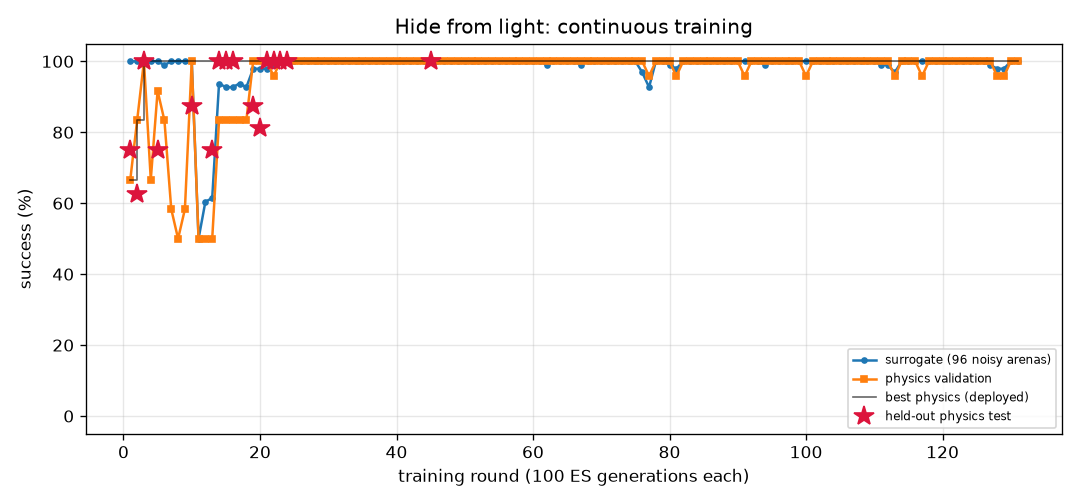
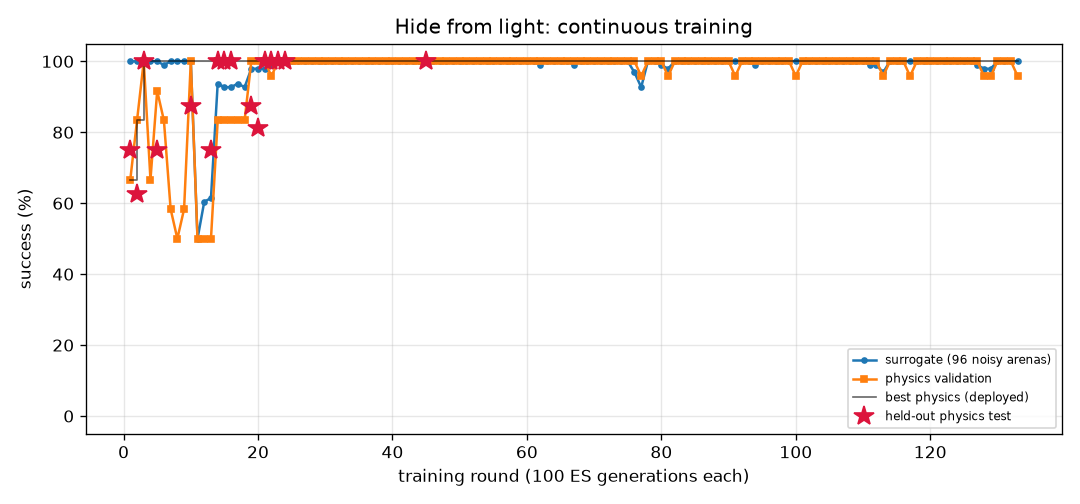
FlyLab: continuous training progress
- walk_forward: optimal, physics val 100% of 24, round 63
- turn: optimal, physics val 100% of 24, round 234
- goto: optimal, physics val 100% of 24, round 61
- odor_seek: optimal, physics val 100% of 24, round 77
- odor_avoid: optimal, physics val 100% of 24, round 338
- light_seek: optimal, physics val 100% of 24, round 242
- light_avoid: optimal, physics val 100% of 24, round 133

diff --git a/projects/09_flylab/training/light_avoid/REPORT.md b/projects/09_flylab/training/light_avoid/REPORT.md
@@ -1,14 +1,14 @@
 # Hide from light (`light_avoid`) — training report
 
-*Auto-generated by `train_brains.py`, last updated 2026-10-08T09:08:33.*
+*Auto-generated by `train_brains.py`, last updated 2026-10-08T09:42:52.*
 
 ![curve](curve.png)
 
 | | |
 |---|---|
-| rounds | 131 |
-| ES generations | 13100 |
-| physics runs | 3384 |
+| rounds | 133 |
+| ES generations | 13300 |
+| physics runs | 3432 |
 | status | **optimal** |
 | best brain | round 45: physics validation **100%** on 24 arenas, surrogate 100% |
 | held-out physics test | **100%** on 32 unseen arenas (95% CI 89%-100%) (errors: [14.4, 28.9, 31.6, 32.2, 31.9, 13.9, 14.5, 34.1, 33.7, 13.3, 14.0, 31.3, 31.1, 13.1, 32.4, 33.8, 32.9, 32.2, 31.7, 32.0, 29.0, 12.3, 31.9, 33.2, 14.2, 13.7, 33.6, 32.5, 33.2, 13.2, 28.1, 33.7]) |
@@ -17,8 +17,6 @@ Physics error per arena: mm gained away from source (> 6 without first approachi
 
 | round | level | gens | sigma | surrogate | physics val | val errors | test | note |
 |---:|---:|---:|---:|---:|---:|---|---:|---|
-| 92 | 3 | 9200 | 0.024 | 100% | 100% | [42.9, 43.2, 43.6, 43.2, 38.5, 42.4, 43.8, 14.5, 39.7, 13.5, 43.4, 37.9, 14.4, 41.9, 43.4, 43.6, 14.2, 39.2, 43.1, 14.4, 44.1, 43.6, 43.0, 37.0] |  |  |
-| 93 | 3 | 9300 | 0.024 | 100% | 100% | [45.5, 46.6, 46.8, 45.6, 43.8, 45.3, 46.6, 14.5, 39.1, 13.2, 44.6, 42.3, 14.4, 45.4, 46.7, 45.0, 14.2, 44.1, 46.1, 14.4, 45.0, 45.7, 46.8, 42.4] |  | restart from best |
 | 94 | 3 | 9400 | 0.024 | 99% | 100% | [37.1, 37.9, 37.6, 38.9, 40.4, 36.4, 35.8, 14.5, 11.3, 13.5, 39.0, 40.4, 14.4, 39.0, 37.6, 38.2, 14.2, 40.2, 38.1, 14.4, 35.8, 39.5, 35.4, 40.5] |  |  |
 | 95 | 3 | 9500 | 0.025 | 100% | 100% | [44.4, 46.2, 45.9, 46.4, 50.0, 46.1, 44.1, 14.5, 46.3, 11.5, 47.0, 50.0, 14.4, 47.5, 46.1, 47.3, 14.2, 49.8, 46.3, 14.4, 42.8, 47.7, 44.6, 50.4] |  |  |
 | 96 | 3 | 9600 | 0.024 | 100% | 100% | [56.4, 59.2, 58.9, 56.8, 58.4, 55.7, 57.7, 14.5, 53.5, 13.3, 57.1, 58.2, 14.4, 58.0, 59.1, 55.7, 14.2, 58.9, 59.5, 14.4, 55.6, 56.9, 57.6, 57.6] |  |  |
@@ -57,3 +55,5 @@ Physics error per arena: mm gained away from source (> 6 without first approachi
 | 129 | 3 | 12900 | 0.025 | 98% | 96% | [39.7, 42.8, 42.9, 39.1, 39.0, 41.9, 42.9, 14.5, 13.0, 13.4, 10.2, 38.7, 14.4, 7.9, 43.0, 40.3, 14.2, 40.2, 42.8, 14.4, 40.6, 11.3, 42.2, 37.6] |  | restart from best |
 | 130 | 3 | 13000 | 0.024 | 100% | 100% | [45.4, 46.5, 45.8, 46.2, 49.6, 45.9, 43.8, 14.5, 43.7, 13.3, 48.7, 49.7, 14.4, 48.7, 46.2, 45.4, 14.2, 49.5, 46.9, 14.4, 43.1, 49.3, 44.8, 49.5] |  |  |
 | 131 | 3 | 13100 | 0.024 | 100% | 100% | [44.0, 45.0, 45.6, 44.5, 42.1, 44.4, 46.4, 14.5, 33.5, 13.3, 42.4, 41.6, 14.3, 40.9, 45.5, 43.7, 14.2, 42.4, 45.5, 14.4, 40.2, 42.8, 45.3, 40.8] |  |  |
+| 132 | 3 | 13200 | 0.024 | 100% | 100% | [55.0, 57.4, 57.6, 55.2, 53.7, 54.9, 57.3, 14.5, 53.6, 13.1, 50.4, 53.7, 14.4, 52.2, 57.6, 54.5, 14.2, 55.4, 57.1, 14.4, 53.9, 53.1, 57.4, 52.4] |  |  |
+| 133 | 3 | 13300 | 0.024 | 100% | 96% | [33.5, 37.3, 36.9, 34.5, 32.2, 34.0, 37.0, 14.5, 15.9, 13.3, 31.6, 33.4, 14.4, 33.1, 37.8, 31.7, 14.2, 33.9, 35.7, 14.4, 31.5, 32.4, 36.5, 32.8] |  | restart from best |

diff --git a/projects/09_flylab/training/odor_avoid/REPORT.md b/projects/09_flylab/training/odor_avoid/REPORT.md
@@ -1,14 +1,14 @@
 # Escape a bad smell (`odor_avoid`) — training report
 
-*Auto-generated by `train_brains.py`, last updated 2026-10-08T08:55:30.*
+*Auto-generated by `train_brains.py`, last updated 2026-10-08T09:29:52.*
 
 ![curve](curve.png)
 
 | | |
 |---|---|
-| rounds | 336 |
-| ES generations | 33600 |
-| physics runs | 5274 |
+| rounds | 338 |
+| ES generations | 33800 |
+| physics runs | 5322 |
 | status | **optimal** |
 | best brain | round 288: physics validation **100%** on 24 arenas, surrogate 98% |
 | held-out physics test | **100%** on 32 unseen arenas (95% CI 89%-100%) (errors: [61.2, 57.1, 61.4, 61.0, 13.5, 61.1, 61.1, 60.7, 60.0, 56.9, 60.8, 56.8, 60.8, 60.0, 58.7, 59.7, 60.7, 54.4, 60.9, 54.7, 61.1, 60.5, 57.7, 58.7, 59.8, 55.9, 55.7, 45.8, 55.9, 58.2, 59.2, 28.5]) |
@@ -17,8 +17,6 @@ Physics error per arena: mm gained away from source (> 6 without first approachi
 
 | round | level | gens | sigma | surrogate | physics val | val errors | test | note |
 |---:|---:|---:|---:|---:|---:|---|---:|---|
-| 297 | 3 | 29700 | 0.025 | 96% | 100% | [62.3, 58.6, 55.8, 60.8, 61.7, 61.9, 60.6, 57.4, 61.1, 61.7, 61.5, 62.0, 53.0, 55.5, 40.8, 60.7, 62.2, 61.6, 54.8, 57.1, 61.9, 61.7, 59.4, 60.5] |  |  |
-| 298 | 3 | 29800 | 0.026 | 97% | 96% | [62.7, 58.8, 58.2, 57.9, 61.1, 62.0, 60.8, 27.5, 60.5, 57.7, 60.9, 60.3, 53.4, 58.1, 37.1, 60.1, 60.2, 60.9, 54.1, 55.0, 59.7, 60.1, 58.3, 46.1] |  |  |
 | 299 | 3 | 29900 | 0.026 | 97% | 100% | [62.8, 58.6, 58.3, 57.7, 60.9, 61.9, 59.8, 49.4, 60.0, 51.0, 60.9, 60.8, 52.6, 57.4, 42.5, 61.3, 59.8, 60.7, 53.2, 57.1, 60.2, 55.2, 58.1, 51.9] |  |  |
 | 300 | 3 | 30000 | 0.026 | 96% | 100% | [61.9, 59.0, 57.9, 59.2, 60.3, 60.6, 60.3, 45.6, 58.7, 60.0, 60.9, 59.7, 53.6, 54.9, 42.6, 60.3, 60.7, 61.2, 54.3, 55.9, 59.9, 59.0, 58.7, 47.7] |  | restart from best |
 | 301 | 3 | 30100 | 0.025 | 97% | 96% | [60.5, 55.6, 54.9, 55.9, 58.9, 59.3, 59.2, 19.3, 58.5, 27.4, 58.6, 59.7, 51.8, 54.5, 15.6, 56.1, 60.1, 59.2, 53.6, 52.6, 59.8, 40.4, 55.2, 51.9] |  |  |
@@ -57,3 +55,5 @@ Physics error per arena: mm gained away from source (> 6 without first approachi
 | 334 | 3 | 33400 | 0.025 | 99% | 100% | [60.9, 60.3, 56.4, 59.9, 61.8, 60.1, 61.6, 41.4, 61.2, 46.9, 60.2, 61.3, 53.6, 56.3, 47.8, 61.4, 61.7, 60.9, 54.7, 59.6, 61.8, 60.7, 59.2, 59.0] |  |  |
 | 335 | 3 | 33500 | 0.025 | 96% | 100% | [60.3, 58.3, 55.8, 58.4, 61.2, 59.9, 61.6, 25.8, 61.2, 45.0, 34.8, 60.8, 49.6, 55.3, 17.2, 60.8, 61.3, 58.2, 53.2, 59.2, 61.2, 58.7, 60.0, 49.5] |  | restart from best |
 | 336 | 3 | 33600 | 0.025 | 94% | 92% | [61.3, 57.4, 56.1, 59.1, 57.6, 60.5, 61.7, 59.6, 61.7, 59.5, 36.1, 61.2, 38.0, 53.1, 19.3, 60.8, 60.8, 58.4, 49.8, 59.9, 61.0, 60.6, 59.5, 60.8] |  |  |
+| 337 | 3 | 33700 | 0.028 | 96% | 96% | [61.1, 58.1, 56.3, 58.8, 60.9, 59.7, 60.6, 49.5, 60.5, 53.8, 27.2, 60.7, 46.8, 56.0, 0.3, 61.1, 61.2, 59.3, 49.8, 57.9, 61.1, 59.9, 59.3, 59.3] |  |  |
+| 338 | 3 | 33800 | 0.026 | 96% | 96% | [60.9, 59.4, 53.4, 60.1, 60.9, 58.5, 60.9, 57.3, 61.6, 54.8, 47.7, 60.9, 45.7, 54.1, 10.6, 58.1, 60.7, 54.7, 49.9, 56.4, 60.9, 59.1, 60.0, 59.5] |  |  |

diff --git a/projects/09_flylab/training/light_seek/REPORT.md b/projects/09_flylab/training/light_seek/REPORT.md
@@ -1,14 +1,14 @@
 # Walk toward light (`light_seek`) — training report
 
-*Auto-generated by `train_brains.py`, last updated 2026-10-07T21:55:01.*
+*Auto-generated by `train_brains.py`, last updated 2026-10-08T10:00:45.*
 
 ![curve](curve.png)
 
 | | |
 |---|---|
-| rounds | 241 |
-| ES generations | 24100 |
-| physics runs | 2536 |
+| rounds | 242 |
+| ES generations | 24200 |
+| physics runs | 2560 |
 | status | **optimal** |
 | best brain | round 235: physics validation **100%** on 24 arenas, surrogate 100% |
 | held-out physics test | **100%** on 32 unseen arenas (95% CI 89%-100%) (errors: [0.42, 0.43, 0.43, 0.46, 0.47, 0.42, 0.43, 0.45, 0.47, 0.5, 0.42, 0.42, 0.47, 0.88, 0.89, 0.46, 0.46, 0.43, 0.45, 0.48, 0.43, 0.84, 0.43, 0.43, 0.43, 0.44, 0.44, 0.47, 0.44, 0.43, 0.44, 0.8]) |
@@ -17,7 +17,6 @@ Physics error per arena: mm from target at the end (< 1.5 and standing still = s
 
 | round | level | gens | sigma | surrogate | physics val | val errors | test | note |
 |---:|---:|---:|---:|---:|---:|---|---:|---|
-| 202 | 1 | 20200 | 0.024 | 100% | 50% | [0.91, 0.73, 0.85, 0.92, 0.45, 0.66] |  |  |
 | 203 | 1 | 20300 | 0.024 | 100% | 83% | [1.03, 0.39, 0.39, 0.38, 0.38, 0.39] | 88% | new best |
 | 204 | 1 | 20400 | 0.024 | 100% | 100% | [0.38, 0.37, 0.38, 0.74, 0.69, 0.37] | 88% | new best |
 | 205 | 2 | 20500 | 0.024 | 100% | 100% | [0.41, 0.41, 0.48, 0.5, 0.41, 0.42, 0.43, 0.42, 0.74, 0.41, 0.41, 0.53] | 100% | new best |
@@ -57,3 +56,4 @@ Physics error per arena: mm from target at the end (< 1.5 and standing still = s
 | 239 | 3 | 23900 | 0.024 | 100% | 96% | [1.05, 0.47, 0.5, 0.46, 0.45, 0.47, 0.43, 0.58, 1.42, 0.46, 0.71, 0.46, 0.51, 0.41, 0.47, 0.48, 0.45, 0.68, 0.58, 1.07, 0.98, 0.42, 0.47, 0.48] |  | restart from best |
 | 240 | 3 | 24000 | 0.024 | 100% | 100% | [0.56, 0.48, 0.62, 0.67, 0.53, 0.55, 0.57, 0.62, 0.65, 0.57, 0.55, 0.44, 0.53, 0.61, 0.6, 0.46, 0.49, 0.63, 0.44, 0.86, 0.59, 0.49, 0.54, 0.92] |  |  |
 | 241 | 3 | 24100 | 0.024 | 100% | 100% | [0.44, 0.45, 0.43, 0.48, 0.58, 0.48, 0.43, 0.47, 0.46, 0.49, 0.45, 0.44, 0.49, 0.62, 0.44, 0.43, 0.5, 0.44, 0.46, 0.52, 0.65, 0.4, 0.41, 0.92] |  |  |
+| 242 | 3 | 24200 | 0.024 | 100% | 100% | [0.49, 0.5, 0.49, 0.51, 0.91, 1.37, 0.97, 0.51, 0.49, 0.5, 0.52, 0.62, 0.54, 0.49, 0.48, 0.51, 0.49, 0.52, 1.17, 0.56, 0.52, 0.58, 0.65, 0.53] |  |  |

diff --git a/projects/09_flylab/training/TRAINING.md b/projects/09_flylab/training/TRAINING.md
@@ -1,6 +1,6 @@
 # FlyLab brains — continuous training log
 
-*Auto-generated by `train_brains.py`, last updated 2026-10-08T09:08:33.*
+*Auto-generated by `train_brains.py`, last updated 2026-10-08T10:00:45.*
 
 Every skill has its own brain and its own training process: surrogate ES rounds, physics validation in MuJoCo, keep-the-best selection, and a held-out physics test that is never used for selection. See each skill's report for its full round-by-round history. Mastery is progressive: passing a level (100% physics validation, >=95% surrogate) doubles the validation and test arena sets; a brain is **optimal** once it holds up at level 3 (>=95% of 24 validation arenas) AND scores >=90% on the 32 held-out test arenas. Test columns show 95% Wilson confidence intervals.
 
@@ -10,6 +10,6 @@ Every skill has its own brain and its own training process: surrogate ES rounds,
 | [Turn in place](turn/REPORT.md) | 234 | 23400 | 5862 | 100% | 100% of 24 | 97% of 32 (CI 84-99%) | **optimal** |
 | [Go to a location](goto/REPORT.md) | 61 | 6100 | 1254 | 100% | 100% of 24 | 100% of 32 (CI 89-100%) | **optimal** |
 | [Find food by smell](odor_seek/REPORT.md) | 77 | 7700 | 1118 | 100% | 100% of 24 | 100% of 32 (CI 89-100%) | **optimal** |
-| [Escape a bad smell](odor_avoid/REPORT.md) | 336 | 33600 | 5274 | 98% | 100% of 24 | 100% of 32 (CI 89-100%) | **optimal** |
-| [Walk toward light](light_seek/REPORT.md) | 241 | 24100 | 2536 | 100% | 100% of 24 | 100% of 32 (CI 89-100%) | **optimal** |
-| [Hide from light](light_avoid/REPORT.md) | 131 | 13100 | 3384 | 100% | 100% of 24 | 100% of 32 (CI 89-100%) | **optimal** |
+| [Escape a bad smell](odor_avoid/REPORT.md) | 338 | 33800 | 5322 | 98% | 100% of 24 | 100% of 32 (CI 89-100%) | **optimal** |
+| [Walk toward light](light_seek/REPORT.md) | 242 | 24200 | 2560 | 100% | 100% of 24 | 100% of 32 (CI 89-100%) | **optimal** |
+| [Hide from light](light_avoid/REPORT.md) | 133 | 13300 | 3432 | 100% | 100% of 24 | 100% of 32 (CI 89-100%) | **optimal** |
